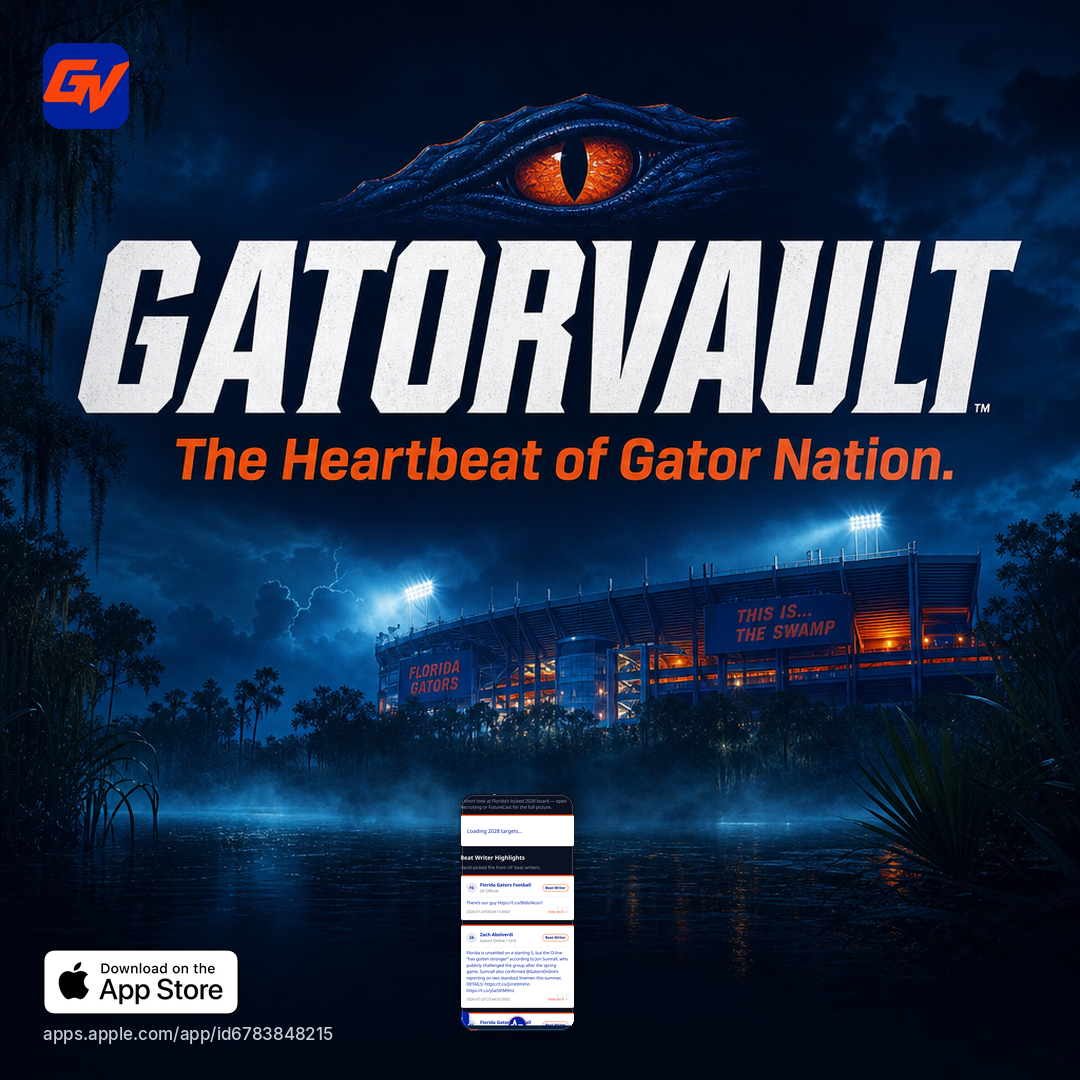
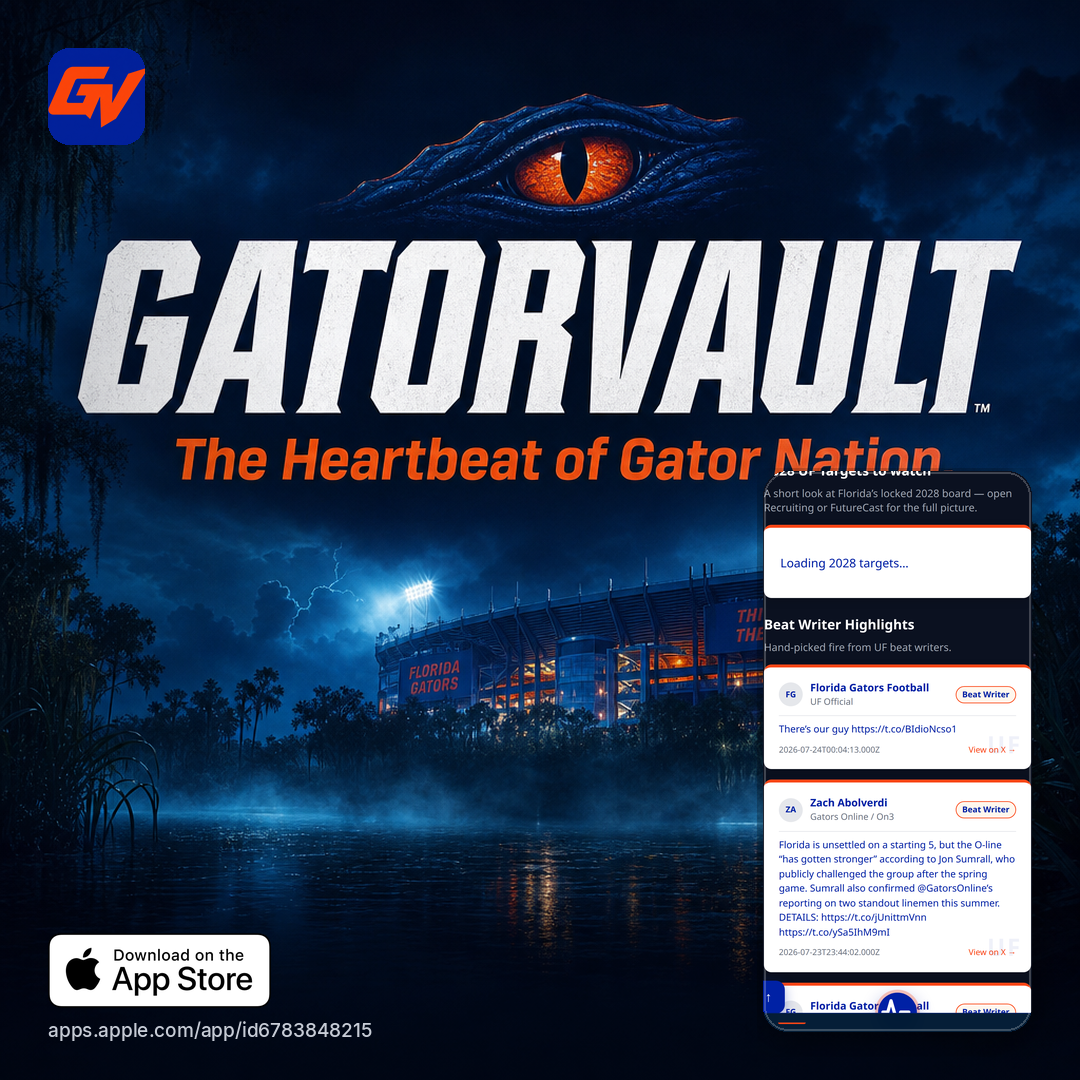
docs(promo): enlarge Live/Targets phones to readable size

diff --git a/docs/promo/README.md b/docs/promo/README.md
@@ -1,16 +1,13 @@
 # GatorVault App Store social pack
 
-## Main (kept — Schedule big on right)
-`gatorvault-twitter-facebook-1600x900.png`
+## Main (kept)
+`gatorvault-twitter-facebook-1600x900.png` — Schedule large on right
 
-## Background-first (stadium + helmet show; screens small in bottom grass band)
-| File | Screen(s) |
-|---|---|
-| `gatorvault-twitter-background-1600x900.png` | Live + Targets |
-| `gatorvault-facebook-og-1200x630.png` | Live |
-| `gatorvault-square-1080.png` | 2028 Targets |
-| `gatorvault-badge-lockup-1200x280.png` | none |
-
-Screens sit low between the badge and helmet — not over the wordmark / stadium.
+## Other posts (readable phones, stadium still open above)
+| File | Screens | Size |
+|---|---|---|
+| `gatorvault-twitter-background-1600x900.png` | Live + Targets | ~half height, lower right |
+| `gatorvault-facebook-og-1200x630.png` | Live | ~half height, lower right |
+| `gatorvault-square-1080.png` | Targets | ~half height, lower right |
 
 https://apps.apple.com/app/id6783848215
